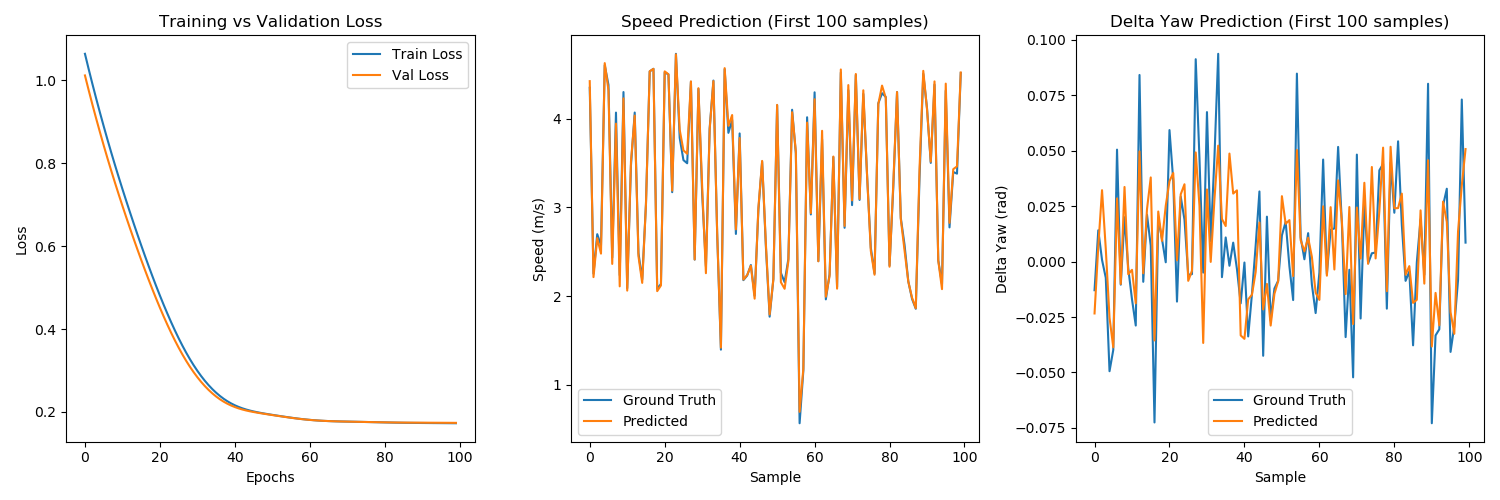
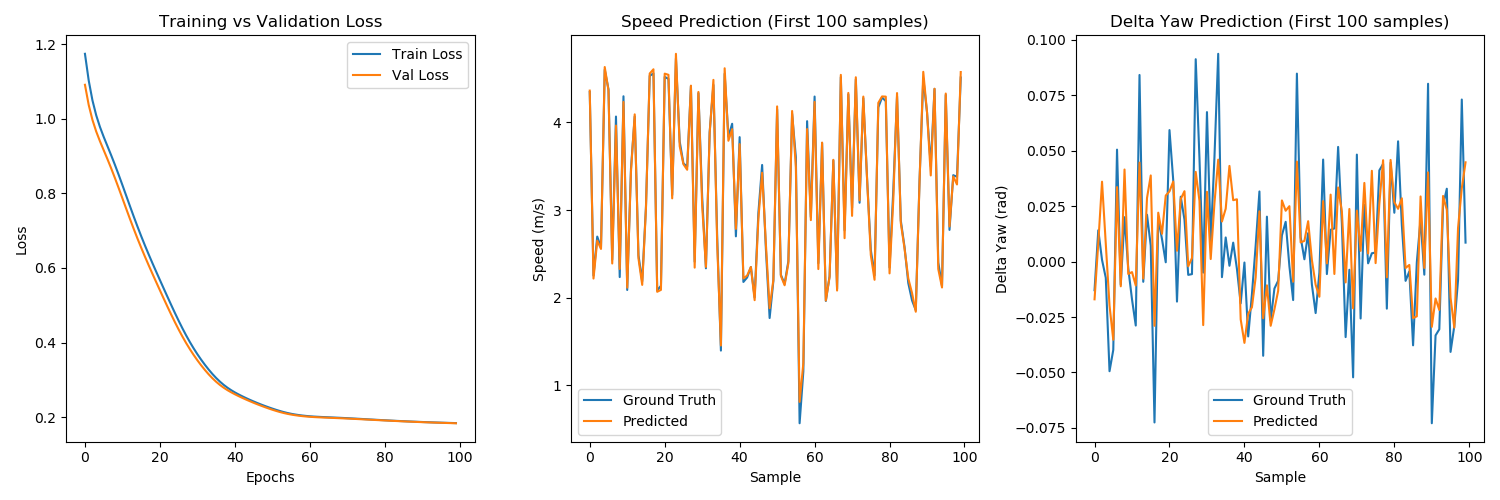
feat: Update dynamics model to use Softplus activation, add ONNX export, and include a solver verification script.

diff --git a/steerai_sysid/scripts/train_dynamics.py b/steerai_sysid/scripts/train_dynamics.py
@@ -22,16 +22,16 @@ class DynamicsModel(nn.Module):
     def __init__(self, input_dim, hidden_dim, output_dim):
         super(DynamicsModel, self).__init__()
         self.fc1 = nn.Linear(input_dim, hidden_dim)
-        self.relu1 = nn.ReLU()
+        self.act1 = nn.Softplus()
         self.fc2 = nn.Linear(hidden_dim, hidden_dim)
-        self.relu2 = nn.ReLU()
+        self.act2 = nn.Softplus()
         self.fc3 = nn.Linear(hidden_dim, output_dim)
         
     def forward(self, x):
         out = self.fc1(x)
-        out = self.relu1(out)
+        out = self.act1(out)
         out = self.fc2(out)
-        out = self.relu2(out)
+        out = self.act2(out)
         out = self.fc3(out)
         return out
 

diff --git a/steerai_mpc/scripts/vehicle_model.py b/steerai_mpc/scripts/vehicle_model.py
@@ -70,11 +70,12 @@ class VehicleModel:
         inp_norm = (inp - self.mean_X) / self.scale_X
         
         # Forward Pass (ReLU activation)
+        # Forward Pass (Softplus activation for smooth gradients)
         h1 = ca.mtimes(self.W1, inp_norm) + self.b1
-        h1 = ca.fmax(0, h1) # ReLU
+        h1 = ca.log(1 + ca.exp(h1)) # Softplus
         
         h2 = ca.mtimes(self.W2, h1) + self.b2
-        h2 = ca.fmax(0, h2) # ReLU
+        h2 = ca.log(1 + ca.exp(h2)) # Softplus
         
         out_norm = ca.mtimes(self.W3, h2) + self.b3
         

diff --git a/steerai_mpc/scripts/mpc_controller.py b/steerai_mpc/scripts/mpc_controller.py
@@ -60,7 +60,7 @@ class MPCController:
                 'acceptable_tol': self.solver_acceptable_tol,
                 'acceptable_iter': self.solver_acceptable_iter,
                 'max_cpu_time': self.solver_max_cpu_time,
-                'hessian_approximation': 'limited-memory',
+                'hessian_approximation': 'exact',
                 'limited_memory_max_history': 6,
             }
         }
